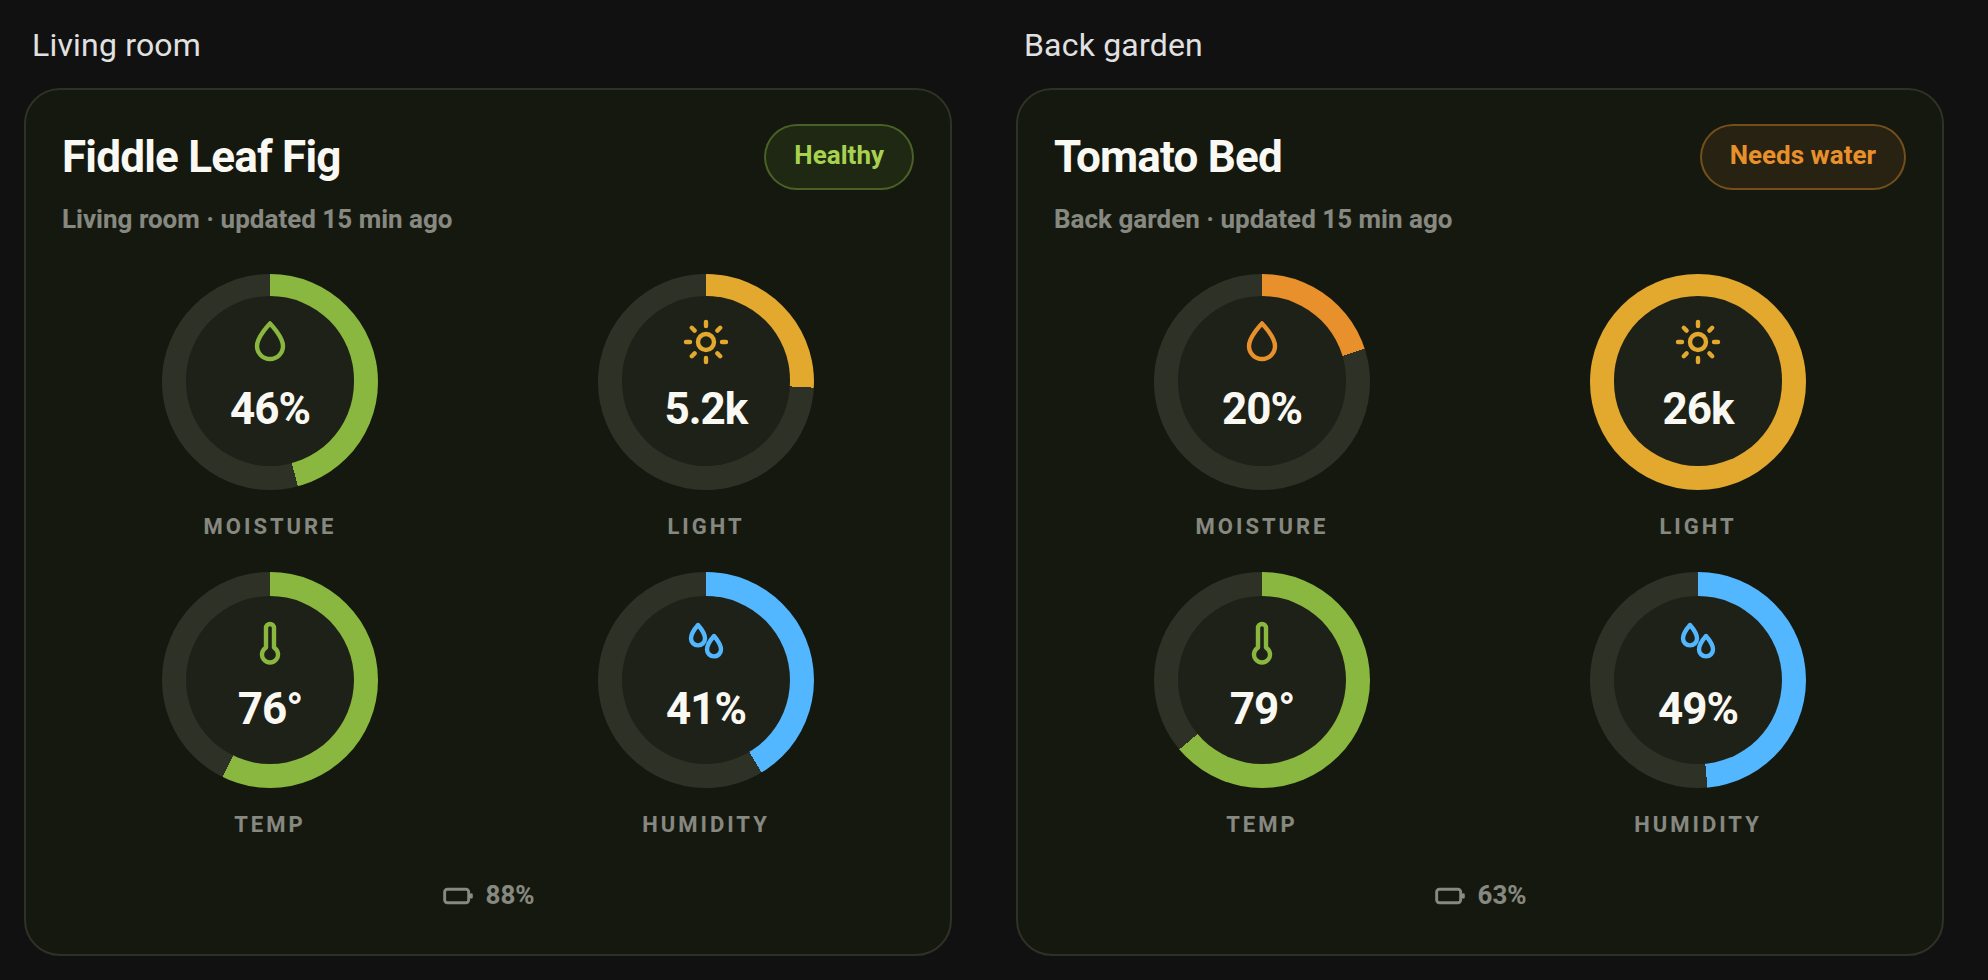
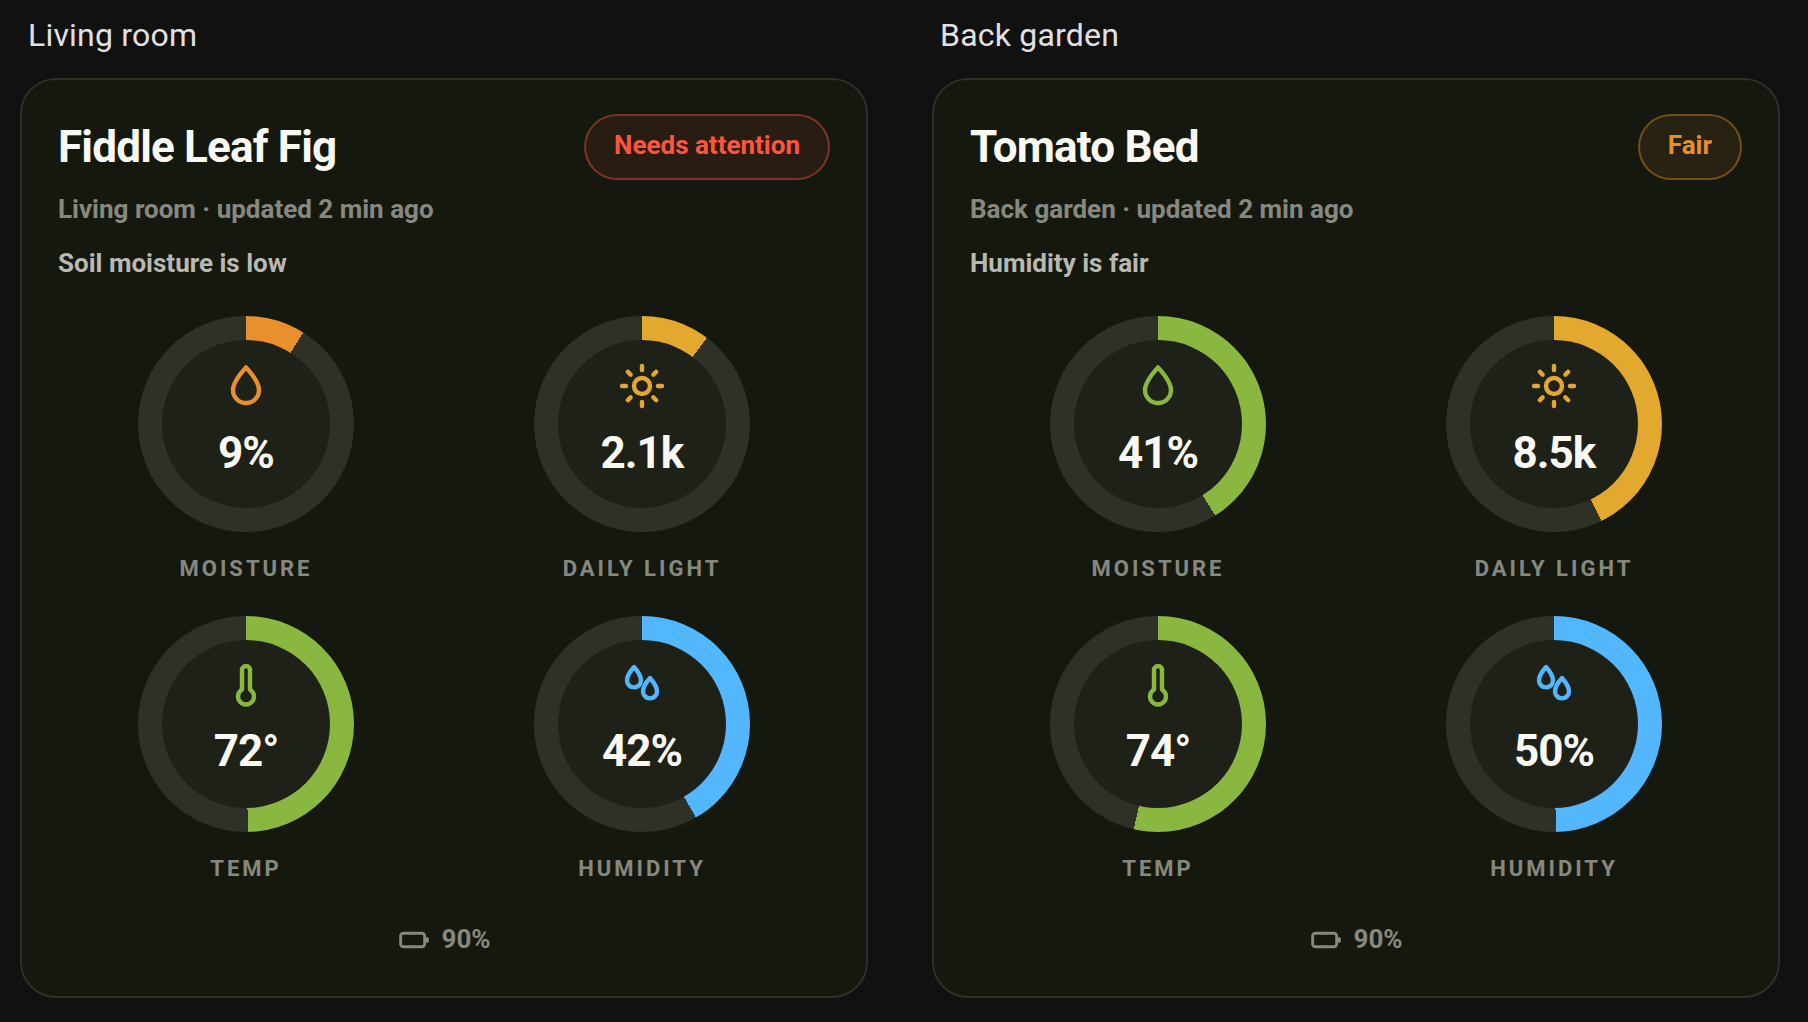
Status pill shows the plant's health from the integration; light dial shows Daily light
With the PlantSense integration 1.3.0+, the pill is Healthy / Fair / Warning / Needs attention with the
reason under it, and the light dial shows the last 24 hours' peak instead of the current reading.
Setting moisture_min or moisture_max, or using ESPHome entities, keeps the moisture pill. Version 1.3.0.

diff --git a/plantsense-card.js b/plantsense-card.js
@@ -3,7 +3,9 @@
  *
  * Mirrors the PlantSense mobile app: a plant name, a status pill, and four
  * conic-gradient dial gauges (soil moisture / light / temperature / humidity),
- * with a small battery chip. Reads any entity ids you give it — the PlantSense
+ * with a small battery chip. With the PlantSense integration (1.3.0+) the pill
+ * is the plant's health as the app judges it, with the reasons under it, and
+ * the light dial shows the day's peak. Reads any entity ids you give it — the PlantSense
  * integration's (sensor.<plant>_moisture, ..._temperature, ..._humidity,
  * ..._illuminance, ..._battery) or a locally adopted ESPHome device's
  * (sensor.plantsense_xxxxxx_soil_moisture, ..._light, ...).
@@ -81,12 +83,25 @@ const DEFAULTS_F = {
   temperature_max: 95,
 };
 
-const VERSION = '1.2.2';
+const VERSION = '1.3.0';
+
+// The PlantSense integration's Health states (sensor.<plant>_health) → pill text + style. Fair and Warning are the
+// app's warning colour, Needs attention its danger colour (plantsense-mobile stats.ts computeHealth).
+const HEALTH_PILLS = {
+  healthy: { text: 'Healthy', kind: 'ok' },
+  fair: { text: 'Fair', kind: 'warn' },
+  warning: { text: 'Warning', kind: 'warn' },
+  needs_attention: { text: 'Needs attention', kind: 'danger' },
+};
+
+// Moisture dial labels (the Health entity's moisture_status) that colour the moisture ring as an alert.
+const MOISTURE_ALERTS = ['Low', 'Saturated'];
 
 class PlantSenseCard extends HTMLElement {
   constructor() {
     super();
     this._config = null;
+    this._found = {};
     this._userConfig = {}; // the YAML as given, to tell explicit options from defaults
     this._hass = null;
     this._root = null; // the content container we re-render into
@@ -110,7 +125,7 @@ class PlantSenseCard extends HTMLElement {
       ...config,
       illuminance,
     };
-    this._lastReadingId = undefined; // re-resolved on the next render
+    this._found = {}; // integration entities on the same device, re-resolved on the next render
     // Force a rebuild of the DOM skeleton on the next render.
     this._root = null;
     if (this._hass) this._render();
@@ -127,7 +142,7 @@ class PlantSenseCard extends HTMLElement {
     // Theme colours are CSS variables keyed off this attribute — no re-render needed.
     this.toggleAttribute('dark', !!(hass.themes && hass.themes.darkMode));
     if (!this._config) return;
-    if (prev && prev.entities !== hass.entities) this._lastReadingId = undefined;
+    if (prev && prev.entities !== hass.entities) this._found = {};
     if (!prev || !this._root || this._entitiesChanged(prev, hass)) {
       this._render();
     }
@@ -140,35 +155,59 @@ class PlantSenseCard extends HTMLElement {
   // Entity ids we depend on, for the change check + more-info wiring.
   _watchedEntities() {
     const c = this._config;
-    return [c.moisture, c.temperature, c.humidity, c.illuminance, c.battery, this._lastReadingEntity()].filter(Boolean);
+    return [
+      c.moisture,
+      c.temperature,
+      c.humidity,
+      c.illuminance,
+      c.battery,
+      this._lastReadingEntity(),
+      this._integrationEntity('health'),
+      this._integrationEntity('daily_light'),
+    ].filter(Boolean);
   }
 
   /**
-   * The PlantSense integration's "Last reading" timestamp entity: `last_reading`
-   * from the YAML, else the integration's timestamp sensor on the same device
-   * as the configured entities. null when there is none (e.g. ESPHome entities).
+   * One of the PlantSense integration's entities on the same device as the
+   * configured readings, by its translation key (`health`, `daily_light`,
+   * `last_reading`): the YAML option of that name when set, else found in the
+   * entity registry. null when there is none (an older integration, or
+   * ESPHome entities).
    */
-  _lastReadingEntity() {
-    if (this._lastReadingId !== undefined) return this._lastReadingId;
+  _integrationEntity(key, fallback) {
+    if (key in this._found) return this._found[key];
     const c = this._config;
-    let found = c.last_reading || null;
+    let found = c[key] || null;
     const registry = (this._hass && this._hass.entities) || {};
     if (!found) {
       const anchor = [c.moisture, c.temperature, c.humidity, c.illuminance, c.battery].find((id) => id && registry[id]);
       const deviceId = anchor && registry[anchor].device_id;
       if (deviceId) {
+        const onDevice = Object.keys(registry).filter(
+          (id) => registry[id].device_id === deviceId && registry[id].platform === 'plantsense'
+        );
         found =
-          Object.keys(registry).find(
-            (id) =>
-              registry[id].device_id === deviceId &&
-              registry[id].platform === 'plantsense' &&
-              (((this._hass.states[id] || {}).attributes || {}).device_class === 'timestamp')
-          ) || null;
+          onDevice.find((id) => registry[id].translation_key === key) ||
+          (fallback && onDevice.find((id) => fallback(id))) ||
+          null;
       }
     }
     // Cache only once hass is here; before that the registry is unknown.
-    if (this._hass) this._lastReadingId = found;
+    if (this._hass) this._found[key] = found;
     return found;
+  }
+
+  /**
+   * The PlantSense integration's "Last reading" timestamp entity: `last_reading`
+   * from the YAML, else the integration's Last reading sensor on the same device
+   * (integrations before 1.3.0 have no translation key on it: then the device's
+   * first timestamp sensor). null when there is none (e.g. ESPHome entities).
+   */
+  _lastReadingEntity() {
+    return this._integrationEntity(
+      'last_reading',
+      (id) => ((this._hass.states[id] || {}).attributes || {}).device_class === 'timestamp'
+    );
   }
 
   _entitiesChanged(prev, next) {
@@ -226,7 +265,12 @@ class PlantSenseCard extends HTMLElement {
     const moisture = this._read(c.moisture);
     const temp = this._read(c.temperature);
     const humidity = this._read(c.humidity);
-    const light = this._read(c.illuminance);
+    // The day's peak light (the integration's Daily light) when there is one: the current reading is 0 at night.
+    const dailyLightId = this._integrationEntity('daily_light');
+    const lightId = dailyLightId || c.illuminance;
+    const light = this._read(lightId);
+    const healthId = this._integrationEntity('health');
+    const healthState = healthId && this._hass.states[healthId];
     const battery = this._read(c.battery);
 
     // When the sensor last reported: the integration's "Last reading" entity
@@ -239,11 +283,22 @@ class PlantSenseCard extends HTMLElement {
     // The integration makes every reading unavailable when the sensor has been
     // silent too long (6 h, as in the app) but keeps its Last reading: Offline.
     const allMissing = [moisture, temp, humidity, light].every((r) => r.value == null);
+    // The pill is the plant's health from the integration, unless the YAML sets its own moisture range (then, as
+    // before 1.3.0, it reads moisture against that range) or there is no Health entity (ESPHome).
+    const ownMoistureRange = 'moisture_min' in this._userConfig || 'moisture_max' in this._userConfig;
+    const health = !ownMoistureRange && healthState ? HEALTH_PILLS[healthState.state] : null;
+    const moistureStatus = this._moistureStatus(moisture.value);
     const status =
       lastReadingId && lastReading && allMissing
         ? { text: 'Offline', kind: 'offline' }
-        : this._moistureStatus(moisture.value);
-    const moistureColor = status.kind === 'dry' || status.kind === 'wet' ? PALETTE.orange : PALETTE.leaf;
+        : health || (healthState && !ownMoistureRange ? { text: 'No data', kind: 'none' } : moistureStatus);
+    const healthAttrs = (health && healthState.attributes) || null;
+    const moistureAlert = healthAttrs
+      ? MOISTURE_ALERTS.includes(healthAttrs.moisture_status)
+      : moistureStatus.kind === 'dry' || moistureStatus.kind === 'wet';
+    const moistureColor = moistureAlert ? PALETTE.orange : PALETTE.leaf;
+    // Why the plant isn't healthy, as the app words it ("Light is low").
+    const reasons = healthAttrs && healthState.state !== 'healthy' && Array.isArray(healthAttrs.reasons) ? healthAttrs.reasons : [];
 
     // Ring range in the entity's own unit unless the YAML sets one explicitly.
     const tempDefaults = temp.unit === '°F' ? DEFAULTS_F : DEFAULTS;
@@ -261,7 +316,7 @@ class PlantSenseCard extends HTMLElement {
 
     const dials =
       this._dial('moisture', c.moisture, 'drop', fmtPct(moisture.value), 'Moisture', moisturePct, moistureColor) +
-      this._dial('illuminance', c.illuminance, 'sun', fmtLux(light.value), 'Light', lightPct, PALETTE.gold) +
+      this._dial('illuminance', lightId, 'sun', fmtLux(light.value), dailyLightId ? 'Daily light' : 'Light', lightPct, PALETTE.gold) +
       this._dial('temperature', c.temperature, 'thermo', fmtTemp(temp.value), 'Temp', tempPct, PALETTE.leaf) +
       this._dial('humidity', c.humidity, 'humidity', fmtPct(humidity.value), 'Humidity', humidityPct, PALETTE.info);
 
@@ -288,6 +343,7 @@ class PlantSenseCard extends HTMLElement {
       `<div class="pill ${status.kind}">${status.text}</div>` +
       `</div>` +
       (subhead ? `<div class="subhead">${subhead}</div>` : '') +
+      (reasons.length ? `<div class="reasons">${reasons.map(esc).join(' · ')}</div>` : '') +
       `<div class="dials">${dials}</div>` +
       (batteryChip ? `<div class="foot">${batteryChip}</div>` : '');
   }
@@ -370,14 +426,15 @@ class PlantSenseCard extends HTMLElement {
       .head { display: flex; justify-content: space-between; align-items: center; gap: 12px; }
       .title { font-size: 22px; font-weight: 700; color: var(--ps-ink); letter-spacing: -0.4px; }
       .subhead { font-size: 13px; font-weight: 600; color: var(--ps-mute); margin-top: 4px; }
+      .reasons { font-size: 13px; font-weight: 600; color: var(--ps-ink2); margin-top: 6px; }
       /* status pill */
       .pill {
         font-size: 13px; font-weight: 700; padding: 5px 14px; border-radius: 999px;
         border: 1.5px solid var(--ps-hair); color: var(--ps-mute); white-space: nowrap;
       }
       .pill.ok { color: var(--ps-accent); border-color: ${P.leaf}66; background: rgba(137,183,63,.10); }
-      .pill.dry, .pill.wet { color: var(--ps-orange); border-color: ${P.orange}66; background: rgba(232,144,43,.09); }
-      .pill.offline { color: var(--ps-danger); border-color: var(--ps-danger-line); background: var(--ps-danger-bg); }
+      .pill.dry, .pill.wet, .pill.warn { color: var(--ps-orange); border-color: ${P.orange}66; background: rgba(232,144,43,.09); }
+      .pill.offline, .pill.danger { color: var(--ps-danger); border-color: var(--ps-danger-line); background: var(--ps-danger-bg); }
       .pill.none { color: var(--ps-mute); border-color: var(--ps-hair); background: rgba(139,144,126,.08); }
       /* dial grid */
       .dials {

diff --git a/README.md b/README.md
@@ -4,9 +4,9 @@
 [![Validate](https://github.com/mattshax/plantsense-ha-card/actions/workflows/validate.yaml/badge.svg)](https://github.com/mattshax/plantsense-ha-card/actions/workflows/validate.yaml)
 
 A dashboard card for Home Assistant that shows a [PlantSense](https://myplantsense.com)
-soil sensor the way the PlantSense app does: the plant name, a **Healthy /
-Needs water / Too wet** status pill, and dials for **soil moisture, light,
-temperature and humidity**, plus the battery level. It follows Home
+soil sensor the way the PlantSense app does: the plant name, its health
+(**Healthy / Fair / Warning / Needs attention**) and why, and dials for **soil
+moisture, daily light, temperature and humidity**, plus the battery level. It follows Home
 Assistant's light and dark themes.
 
 [PlantSense](https://myplantsense.com) is a WiFi soil sensor for house plants
@@ -80,20 +80,36 @@ Tap a dial to open that entity's details and history.
 |---|---|---|---|
 | `name` | string | `PlantSense` | Plant name shown in the header. |
 | `location` | string | — | Optional sub-heading, e.g. a room. |
-| `moisture` | entity id | — | Soil-moisture sensor (`%`). Drives the status pill. |
+| `moisture` | entity id | — | Soil-moisture sensor (`%`). |
 | `temperature` | entity id | — | Temperature sensor. |
 | `humidity` | entity id | — | Humidity sensor (`%`). |
 | `illuminance` | entity id | — | Light sensor (`lx`). `light` works too. |
 | `battery` | entity id | — | Battery sensor (`%`). The battery chip is hidden without it. |
-| `last_reading` | entity id | found automatically | The PlantSense integration's **Last reading** sensor. Normally found on its own from the device of the other entities. |
-| `moisture_min` | number | `15` | Below this the pill reads **Needs water** and the moisture ring turns orange. |
-| `moisture_max` | number | `60` | Above this the pill reads **Too wet**. |
+| `health` | entity id | found automatically | The PlantSense integration's **Health** sensor (integration 1.3.0+). Drives the status pill. |
+| `daily_light` | entity id | found automatically | The integration's **Daily light** sensor (1.3.0+). The light dial shows it instead of `illuminance`. |
+| `last_reading` | entity id | found automatically | The PlantSense integration's **Last reading** sensor. |
+| `moisture_min` | number | `15` | Without a Health sensor, or when set: below this the pill reads **Needs water** and the moisture ring turns orange. |
+| `moisture_max` | number | `60` | Without a Health sensor, or when set: above this the pill reads **Too wet**. |
 | `illuminance_max` | number | `20000` | Lux that fills the light ring. |
 | `temperature_min` | number | `10` (°C) / `50` (°F) | Temperature of an empty ring, in the sensor's unit. |
 | `temperature_max` | number | `35` (°C) / `95` (°F) | Temperature of a full ring, in the sensor's unit. |
 
+The integration's entities (`health`, `daily_light`, `last_reading`) are found
+on their own from the device of the other entities.
+
 A missing or unavailable entity shows `—` with an empty ring; the card never
 errors on a partly configured or offline sensor.
+
+**Status pill.** With the PlantSense integration 1.3.0 or later, the pill is the
+plant's health as the app shows it: **Healthy**, **Fair**, **Warning** or
+**Needs attention**, with the reason under it (for example "Soil moisture is
+low"). It is judged against your plant's own care ranges. The moisture ring
+turns orange when soil moisture is low or saturated, and the light dial shows
+the brightest light of the last 24 hours (**Daily light**), so it isn't empty
+at night.
+
+If you set `moisture_min` or `moisture_max`, or use ESPHome entities, the pill
+reads soil moisture against that range instead.
 
 The sub-heading's "updated … ago" is when the sensor took its last reading,
 from the integration's **Last reading** sensor (with ESPHome entities, when
@@ -101,9 +117,9 @@ Home Assistant last received a value). When the integration marks a sensor
 offline (no reading for more than 6 hours), its readings are unavailable and
 the pill reads **Offline**.
 
-> **Tune the moisture range per plant.** 15–60% suits a typical houseplant.
-> Succulents want it much lower (about 5–15%), tropicals a little higher
-> (about 25–60%). The PlantSense app shows the range for your plant.
+> **Moisture range without the integration.** 15–60% suits a typical
+> houseplant. Succulents want it much lower (about 5–15%), tropicals a little
+> higher (about 25–60%). The PlantSense app shows the range for your plant.
 
 ## Support
 
